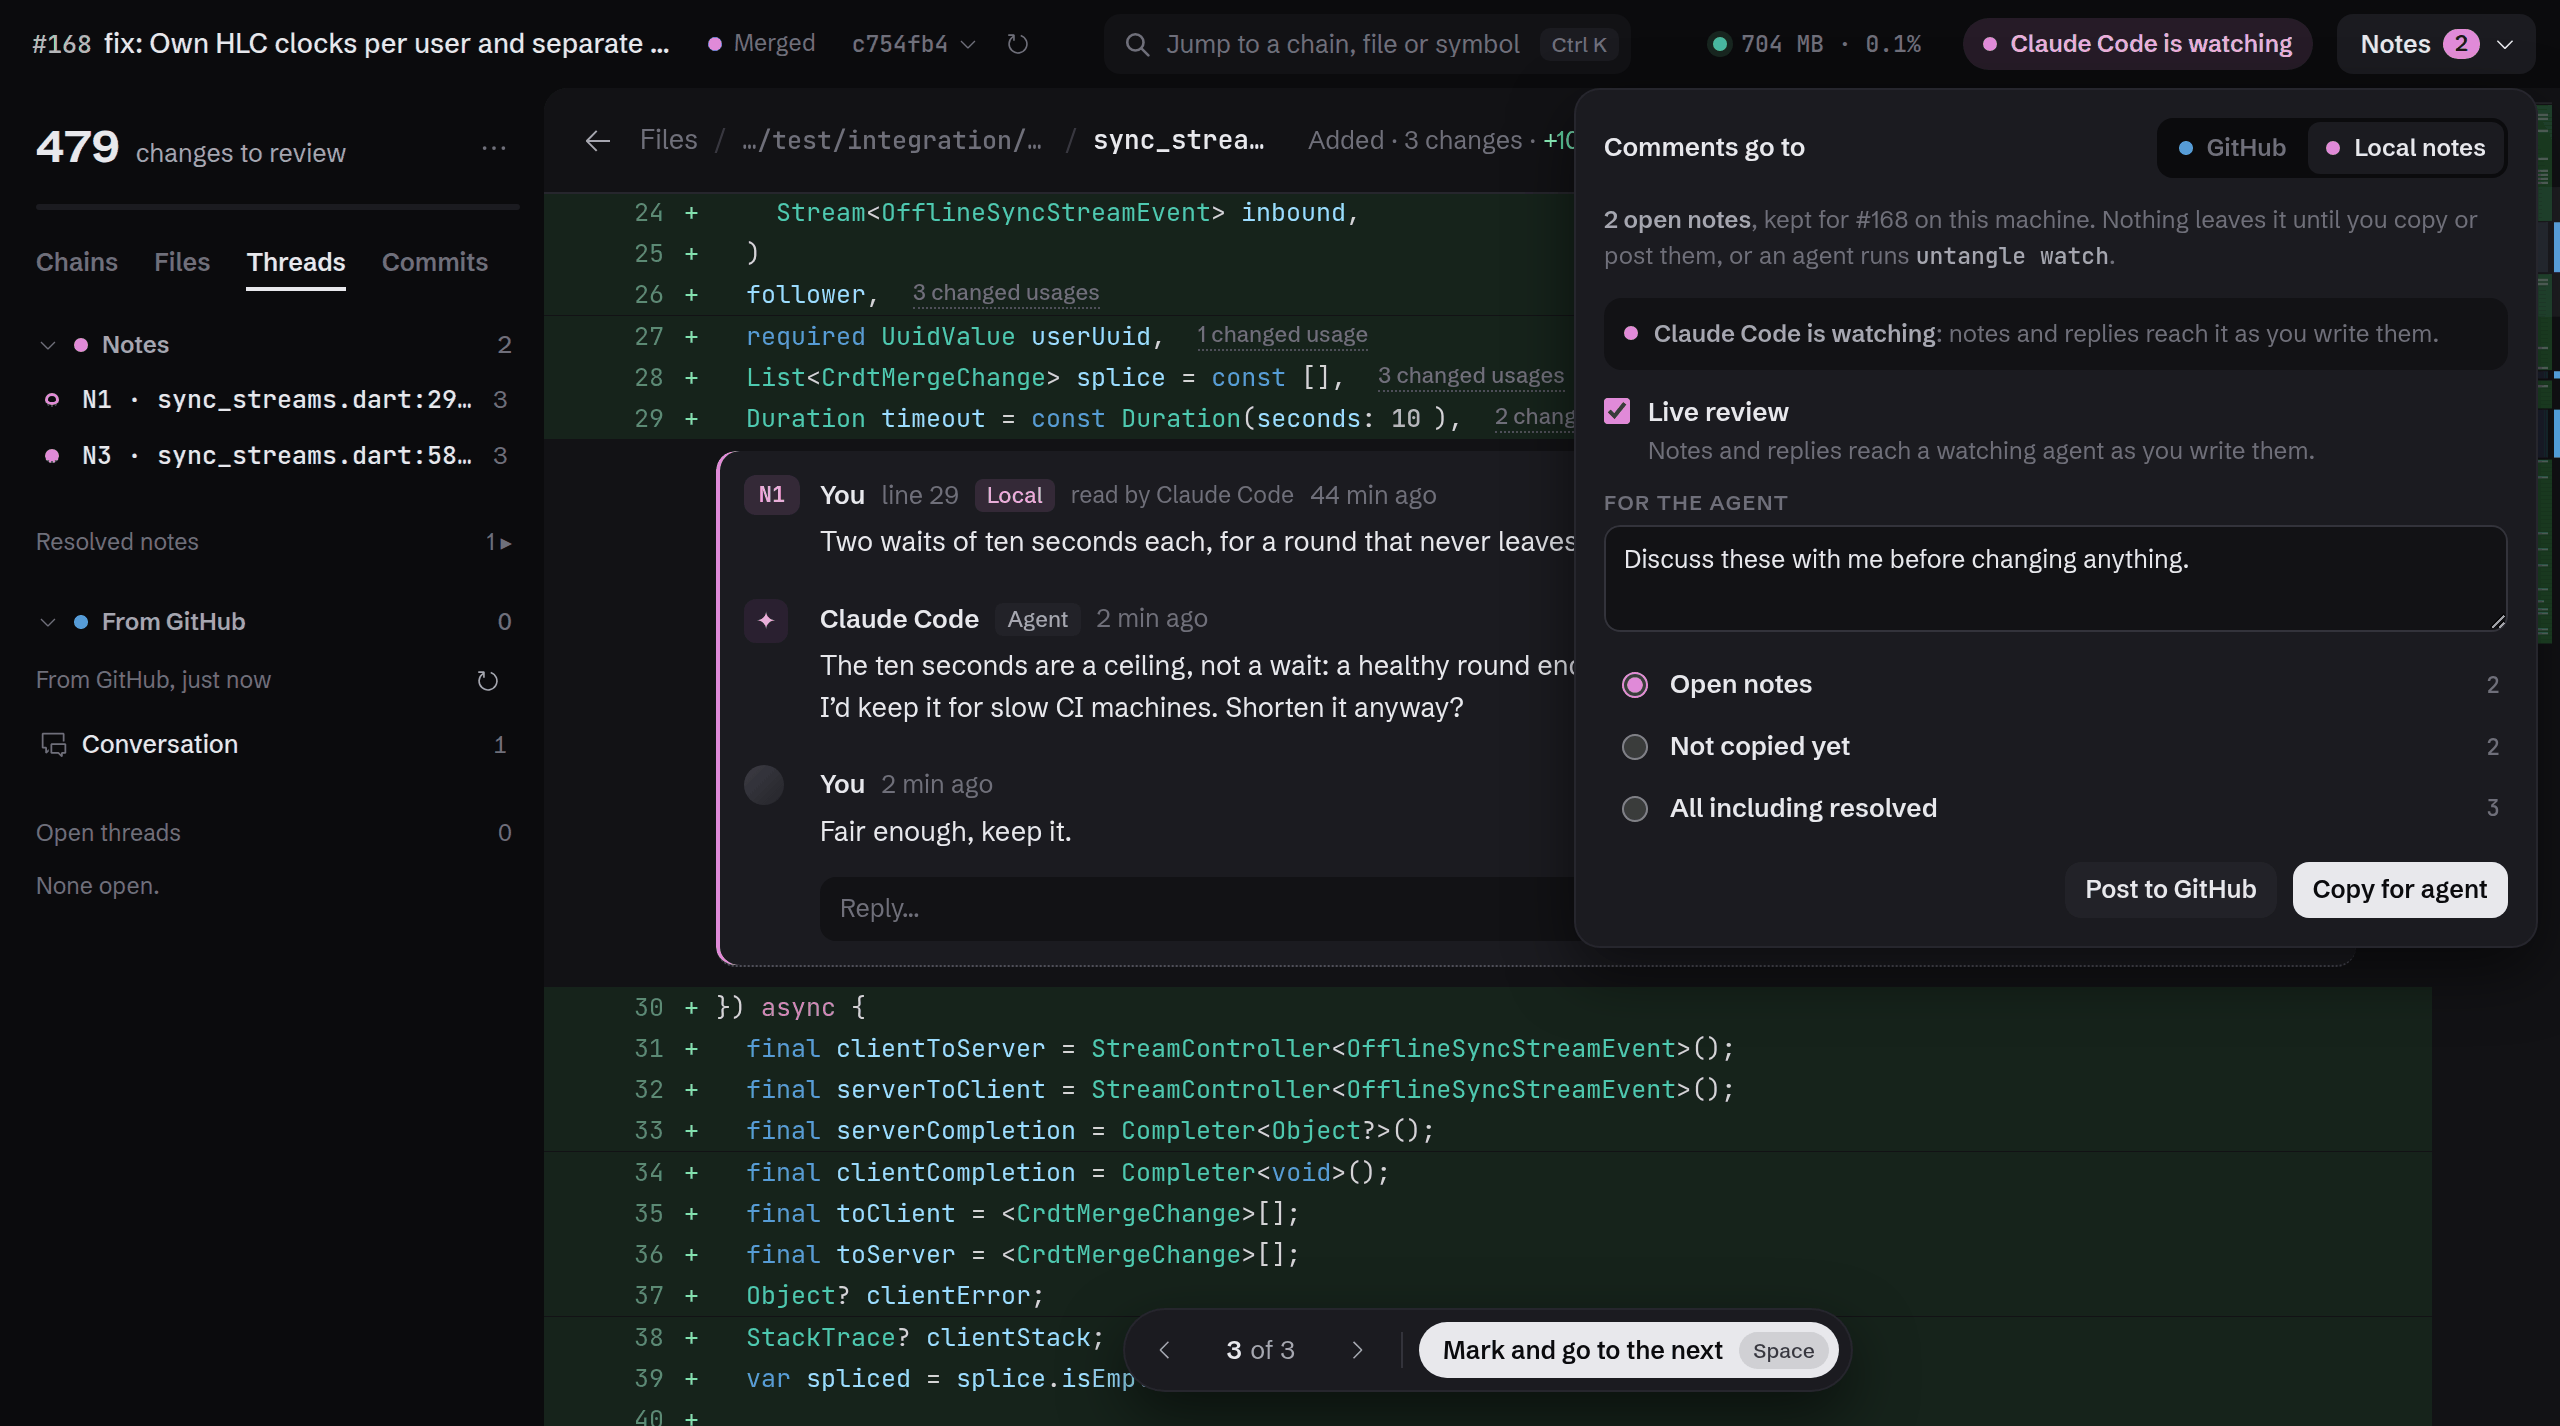
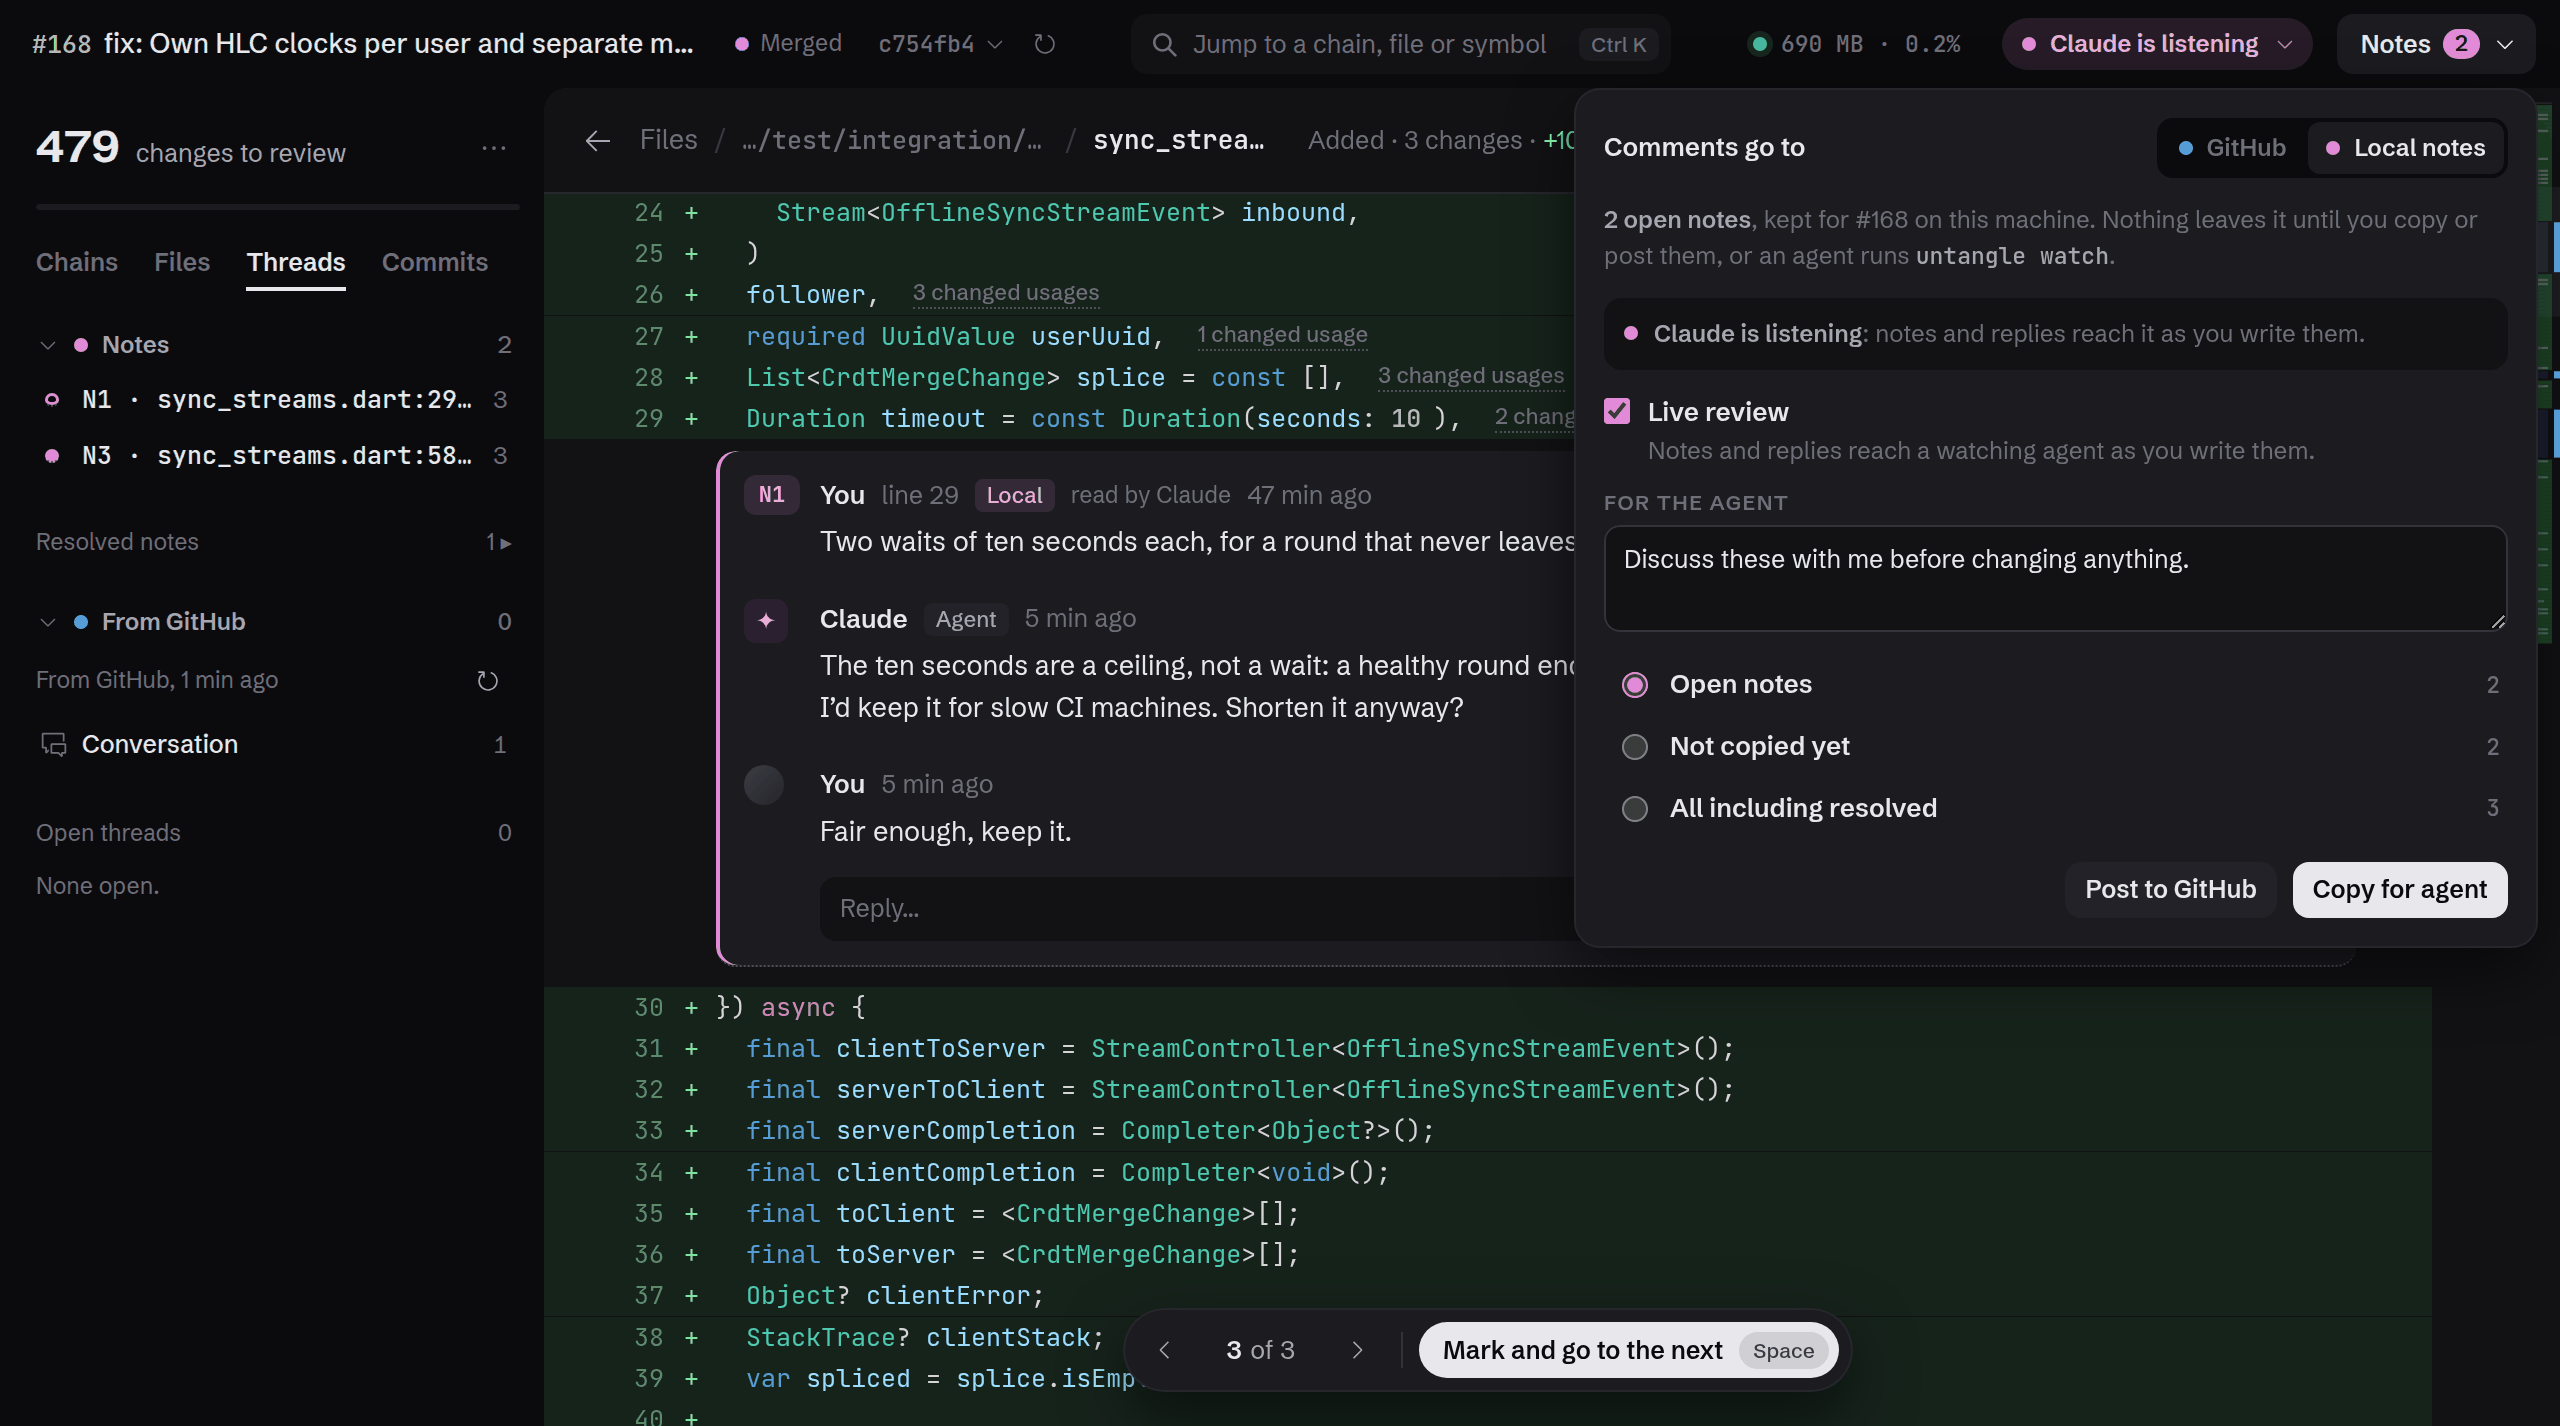
docs: The README asks for the review in the agent's chat, after untangle skill -install

diff --git a/README.md b/README.md
@@ -129,25 +129,34 @@ replaced.
 
 ### Review with your agent
 
-When an agent wrote the code, the review is a conversation with the agent. Set *Comments go to* to
-*Local notes* in the Review button's menu (the default without a pull request), and comments stay
-on your machine, numbered N1, N2…, in orchid under their lines. Ask the agent for a review and it
-runs [`untangle watch`](#with-a-coding-agent): the review opens (in Orca's browser inside Orca),
-your notes reach the agent as you write them, and its answers land in their threads, as comments
-on a Claude artifact do. Any agent that runs commands can, on any pull request or branch.
+When an agent wrote the code, the review is a conversation with the agent. Comments go to *Local
+notes*, set in the Review button's menu: they stay on your machine, numbered N1, N2…, in orchid
+under their lines. Ask for the review in the agent's chat, "review this in untangle", and the
+[untangle skill](#with-a-coding-agent) does the rest: the review opens (in Orca's browser inside
+Orca), your notes reach the agent as you write them, and its answers land in their threads, as
+comments on a Claude artifact do. It works with Claude and Codex, and with any agent that runs
+commands, on any pull request or branch. Ask it to review the change too, and it writes notes of
+its own, threads for you to answer.
+
+The review belongs to its page, and the chat holds it. The label in the bar says where that chat
+is: listening, working on N1–N3, a line from untangle waiting for its turn, not listening, or
+left. When Claude's chat sits idle with nothing listening, its menu offers *Wake Claude*, which
+types the line into its terminal in Orca. Another chat of the same agent that asks for the review
+takes it over, with every open note.
 
 When the agent commits, the page offers to refresh, and each note follows its lines: one whose
 lines changed says so, and keeps the lines it was written on. The agent can resolve what it fixed,
 and the note says who did. *Copy for agent* puts the notes on your clipboard as a prompt, for an
-agent you talk to in a chat, and *Post to GitHub* turns the open ones into your pending review.
+agent you talk to in a chat, and *Post to GitHub* turns your open ones into your pending review.
 
-![Notes on #168's sync_streams.dart: Claude Code watching, its answers in the threads, a note changed since the head it was written on, and one it resolved](docs/images/notes.png)
+![Notes on #168's sync_streams.dart: Claude listening, its answers in the threads, a note changed since the head it was written on, and one it resolved](docs/images/notes.png)
 
 The menu keeps the line every copy opens with, and which notes it takes. *Live review* sends your
 notes and replies as you write them; turned off, they wait until you send them, like a pending
-review.
+review. Comments start as notes when an agent's chat started the review, or when it has notes
+already; else, on a pull request, they go to GitHub.
 
-![The Notes menu: Comments go to Local notes, Claude Code watching, Live review, the line for the agent, and Copy for agent](docs/images/notes-menu.png)
+![The Notes menu: Comments go to Local notes, Claude listening, Live review, the line for the agent, and Copy for agent](docs/images/notes-menu.png)
 
 ### And more
 
@@ -220,7 +229,7 @@ and `untangle` stops.
 ```
 untangle [flags] [directory]
 untangle [flags] <pr-url>
-untangle watch | reply | notes | stop ...
+untangle watch | reply | note | notes | stop | skill ...
 ```
 
 ### What it reviews
@@ -265,7 +274,17 @@ adapters:
 
 ### With a coding agent
 
-Ask your agent for an untangle review of its branch, and to answer your notes there. It runs:
+Install the untangle skill once, and ask for a review in the agent's chat:
+
+```sh
+untangle skill -install
+```
+
+It puts the skill where each agent on your machine reads skills: `~/.claude/skills` for Claude
+(`/untangle`), and `~/.agents/skills` for Codex (`$untangle`), one file when one folder links to
+the other. For Codex it adds `~/.codex/rules/untangle.rules`, a rule that runs `untangle` outside
+Codex's sandbox, which can't write untangle's cache or serve its page. `untangle skill` prints the
+skill, for any other agent. Then "review this in untangle" is enough, and the agent runs:
 
 ```sh
 untangle watch [directory | pr-url]
@@ -273,8 +292,12 @@ untangle watch [directory | pr-url]
 
 `watch` starts the review if it isn't running and opens its page, then waits for the notes and
 replies the agent hasn't read, prints them and exits. Exiting is what wakes an agent that runs it
-in the background, as Claude Code does; others run it again after each answer (`-timeout 9m` keeps
-it under a command's time limit). Its first output tells the agent how to go on:
+in the background, as Claude does; others run it again after each answer (`-timeout 9m` keeps it
+under a command's time limit). Codex can't be woken that way, so its watch returns at once, and a
+few seconds after your last note or reply untangle puts one line in its chat with `codex queue`:
+"untangle: 2 new notes on the review of #168. Run untangle watch to read them." A busy Codex reads
+it when its turn ends. The review starts outside the agent's processes, so stopping a watch, or
+ending the chat, never closes the page. Its first output tells the agent how to go on:
 
 ````
 $ untangle watch
@@ -290,22 +313,31 @@ In the change "Store the clock inside the write's savepoint in caller-owned tran
 Two waits of ten seconds each, for a round that never leaves memory. Would two seconds do, so a hung test fails fast?
 …
 untangle: you hold this code review. The person reviewing writes notes on the code in its page (http://127.0.0.1:7778/?token=…), and your answers show under them at once.
-untangle: each untangle watch waits for the notes and replies you haven’t read, prints them and exits: run it again after each answer, in the background if you can.
+untangle: each untangle watch waits for the notes and replies you haven’t read, prints them and exits: run it again after each answer, in the background.
 untangle: answer in a note’s thread with untangle reply N2 'your answer'; add -resolve once you’ve made the change. Commit as you go: the page shows your commits, and the notes follow their lines.
 untangle: untangle notes prints the open notes again; untangle stop closes the review.
 ````
 
-| Command                     |                                                                                 |
-| --------------------------- | ------------------------------------------------------------------------------- |
-| `untangle reply <N> <text>` | answer in note N's thread; `-resolve` resolves it too, once it's done           |
-| `untangle notes`            | print the open notes, as *Copy for agent* gives them (`-all`: the resolved too) |
-| `untangle stop`             | close the review; a waiting `watch` says so and exits                           |
+| Command                                         |                                                                                                          |
+| ----------------------------------------------- | -------------------------------------------------------------------------------------------------------- |
+| `untangle reply <N> <text>`                     | answer in note N's thread; `-resolve` resolves it too, once it's done                                    |
+| `untangle note <path>[:<line>[-<line>]] <text>` | write a note of its own, on the review's lines or a whole file (`-removed`: on lines the change removed) |
+| `untangle notes`                                | print the open notes, as *Copy for agent* gives them (`-all`: the resolved too)                          |
+| `untangle stop`                                 | close the review; a waiting `watch` says so and exits                                                    |
+| `untangle skill`                                | print the skill; `-install` puts it where Claude and Codex read skills                                   |
 
 Each run of `watch` returns only what that agent hasn't read, a few seconds after the last note,
-so a burst arrives together. While an agent watches, untangle looks for its commits every few
-seconds instead of every two minutes. An answer is signed with the agent's name: `-agent <name>`,
-or Claude Code and Gemini CLI, known from their environment. The commands reach the review through
-a file in the cache that holds its port and token, so only your own processes can.
+so a burst arrives together. While an agent holds the review, untangle looks for its commits every
+few seconds instead of every two minutes. An answer is signed with the agent's name: `-agent
+<name>`, or Claude, Codex and Gemini CLI, known from their environment. The commands reach the
+review through a file in the cache that holds its port and token, so only your own processes can.
+
+A watch from Claude or Codex also says which chat it runs in, and the review keeps to one chat per
+agent: a watch from another chat takes the review over, the first chat's watch says so, and the
+new chat gets every open note with its thread. The label reads the chat's own state: whether a
+watch waits in it, whether Claude's session or Codex's thread is in a turn, and whether the agent
+still runs. When the chat ends, the label says the agent left, and what you write waits for the
+next chat that runs `watch`.
 
 ### Keys
 
@@ -389,7 +421,7 @@ plus every change you marked, so `git diff untangle/pr-<number> HEAD` shows what
   - `reviews/`: per pair of commits, the analyzer's facts, the review, and marks on parts of a
   change.
   - `notes/`: your notes, per review like its branch (`notes/github.com/<owner>/<repo>/pr-<number>.json`),
-  with what each agent has read.
+  with what each agent has read, and the chat that holds the review for it.
   - `run/`: how to reach each review running now (its port and token), for `untangle watch`,
   `reply`, `notes` and `stop`.
 
